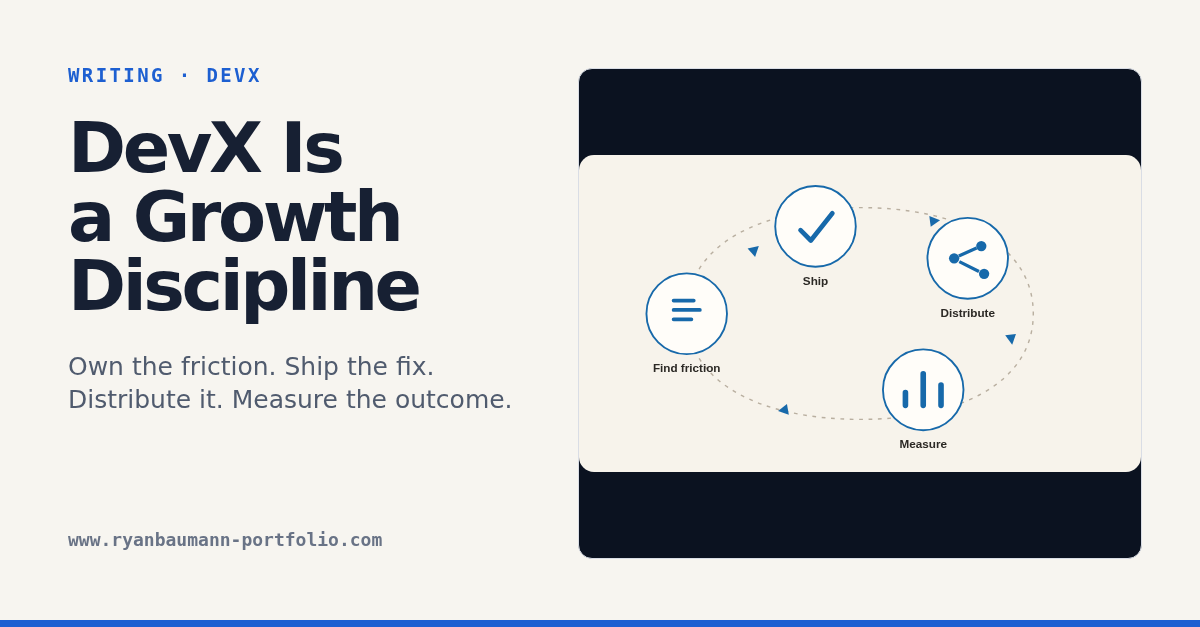
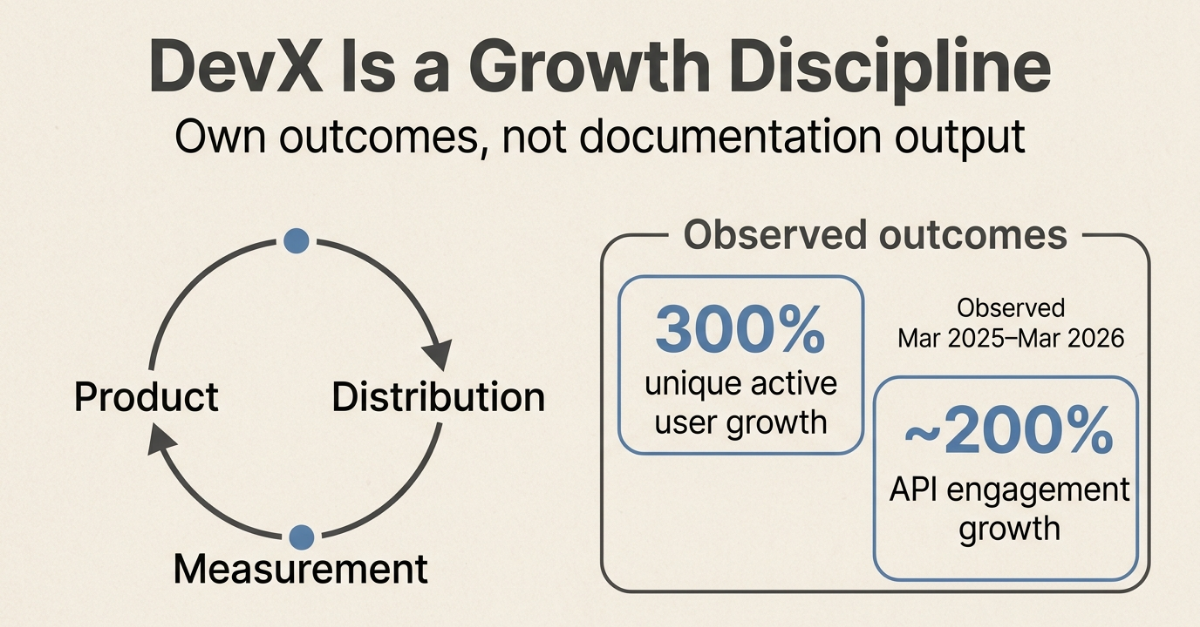
finalize DevX essay visuals

diff --git a/.agents/skills/infographic-agent/portable_infographic.py b/.agents/skills/infographic-agent/portable_infographic.py
@@ -637,11 +637,29 @@ def _normalize_to_png(data: bytes, mime: str):
         return data, m
 
 
+def _image_config(aspect: str, resolution: str):
+    """Use newer quality controls only when the installed SDK supports them."""
+    fields = getattr(types.ImageConfig, "model_fields", {})
+    kwargs = {"aspect_ratio": aspect}
+    if "image_size" in fields:
+        kwargs["image_size"] = resolution
+    else:
+        warn("Installed google-genai does not expose image_size; using the model's native resolution.")
+    return types.ImageConfig(**kwargs)
+
+
+def _thinking_config():
+    fields = getattr(types.ThinkingConfig, "model_fields", {})
+    if "thinking_level" in fields:
+        return types.ThinkingConfig(thinking_level="HIGH", include_thoughts=True)
+    return types.ThinkingConfig(thinking_budget=-1, include_thoughts=True)
+
+
 def generate_image(client, prompt: str, aspect: str, image_model: str, resolution: str):
     config = types.GenerateContentConfig(
         response_modalities=["TEXT", "IMAGE"],
-        image_config=types.ImageConfig(aspect_ratio=aspect, image_size=resolution),
-        thinking_config=types.ThinkingConfig(thinking_level="HIGH", include_thoughts=True),
+        image_config=_image_config(aspect, resolution),
+        thinking_config=_thinking_config(),
         http_options=types.HttpOptions(timeout=180_000),
     )
     info(f"🎨 Generating the infographic ({image_model}) at {resolution}...")
@@ -656,8 +674,8 @@ def generate_image(client, prompt: str, aspect: str, image_model: str, resolutio
 def refine_image(client, image_bytes: bytes, mime: str, instruction: str, aspect: str, image_model: str, resolution: str):
     config = types.GenerateContentConfig(
         response_modalities=["TEXT", "IMAGE"],
-        image_config=types.ImageConfig(aspect_ratio=aspect, image_size=resolution),
-        thinking_config=types.ThinkingConfig(thinking_level="HIGH", include_thoughts=True),
+        image_config=_image_config(aspect, resolution),
+        thinking_config=_thinking_config(),
         http_options=types.HttpOptions(timeout=180_000),
     )
     contents = [

diff --git a/portfolio/content/writing/devex-is-a-growth-discipline.md b/portfolio/content/writing/devex-is-a-growth-discipline.md
@@ -6,12 +6,12 @@ summary: DevX teams should own developer friction from discovery through distrib
 date: 2026-07-14
 updated: 2026-07-15
 canonical: https://www.ryanbaumann-portfolio.com/writing/devx-is-a-growth-discipline/
-image: /assets/devx-growth-loop.svg
-imageAlt: A continuous loop from finding developer friction to shipping a better experience, distributing it, and measuring the outcome.
+image: /assets/devx-growth-header.png
+imageAlt: A four-stage DevX loop moves from observed friction to a shipped fix, distribution in builder workflows, and rising measured outcomes.
 socialImage: /social/devx-growth-discipline.png
 shareTitle: DevX Is a Growth Discipline
 shareSummary: Own the friction, ship the fix, distribute the experience, and measure the outcome.
-shareImageAlt: The DevX growth loop: find friction, ship, distribute, and measure.
+shareImageAlt: DevX Is a Growth Discipline, with a product, distribution, and measurement loop beside observed user and API engagement growth.
 tags: ["developer experience", "growth", "distribution", "ai"]
 order: 1
 ---
@@ -42,6 +42,6 @@ Traditional feedback loops are slow. Interviews, support themes, and developer s
 
 Evals do not replace user research. An eval delta tests whether the experience can complete the task. Product telemetry shows whether builders found it, completed the journey, and returned. Direct research explains why people behaved that way. Together, those signals let a DevX team test a specific hypothesis without pretending one score explains the user.
 
-![An agentic evaluation loop from task to agent run to score to a ship-or-hold decision.](/img/work/agentic-evals.svg)
+![An agent evaluation loop moves from a representative task through an agent trace and rubric comparison to a ship-or-hold decision, then repeats using telemetry and research.](/assets/devx-eval-loop.png)
 
 This is the discipline: own the friction, solve it, improve the product, ship the better experience into the workflow, and measure the impact. Then run the loop again.

diff --git a/LEARNINGS.md b/LEARNINGS.md
@@ -215,3 +215,10 @@ Context: The `portable-infographic-architect` script generated a very tall, vert
 Learning: Large language models default to vertical stacking (flex-direction: column) when generating HTML/CSS cards for infographics unless explicitly constrained otherwise. A long vertical image works on Pinterest but fails catastrophically as a hero image or embedded asset in an essay.
 Evidence: The initial DevX essay thumbnail was unreadably tall. Passing "WIDESCREEN LANDSCAPE 16:9 ASPECT RATIO REQUIRED. Arrange items horizontally side-by-side, NOT vertically." to the script's `--text` parameter successfully forced the LLM to generate a horizontal layout that fit perfectly within the blog design without stretching.
 Use next time: When using the `portable-infographic-architect` for blog thumbnails, hero images, or essay embeds, explicitly command the script to use a landscape/widescreen layout and horizontal item arrangement in the prompt. Do not leave the aspect ratio up to the model.
+
+## 2026-07-15: Image-generation settings can outpace an installed SDK
+
+Context: The DevX essay visual pass required Gemini 3.1 Flash Image at 1K with high thinking, but the locally installed Python SDK did not expose `image_size` or `thinking_level` in its typed configuration objects.
+Learning: Model support and client-library support can land at different times. Feature-detect optional SDK fields, and use the official REST request shape when a required generation setting is supported by the model but absent from the installed client.
+Evidence: Compatibility helpers keep the infographic skill runnable on the current SDK, while the successful final image requests used `imageConfig.imageSize: "1K"` and `thinkingConfig.thinkingLevel: "high"` through the Gemini API.
+Use next time: Confirm required image settings against the live client types before a render loop. Archive the exact model, request configuration, prompt, and uncropped source beside the finished asset.

diff --git a/CHANGELOG.md b/CHANGELOG.md
@@ -4,10 +4,11 @@
 
 - Renamed the first essay route from `devex` to `devx`, updated its canonical metadata, and added an HTTP 308 alias so existing links keep working with query strings intact.
 - Rewrote the essay around owning developer friction, distributing improvements into builder workflows, and measuring outcomes with product evidence and agent evaluations.
-- Replaced the oversized text-heavy hero with a 16:9 growth-loop diagram, added a separate 1200×627 social card, and embedded an agentic-evals artifact in the article.
+- Replaced the oversized text-heavy hero with a 16:9 growth-loop diagram, added a separate 1200×627 social card, and embedded a purpose-built agent-evaluation loop in the article.
 - Added reusable front-matter aliases for future detail-page renames and documented the workflow in the portfolio content skill.
 - Hardened aliases against slashless duplicates, canonical-page collisions, private-route disclosure, stale canonicals, external targets, and bodyless entries.
 - Installed Infographic Agent 3.2.0 and documented the required three-asset visual standard for every future hosted essay.
+- Archived the exact final image prompts and settings, including Gemini 3.1 Flash Image at 1K with high thinking, so all three visuals can be reproduced.
 
 ## 2026-07-14: DevEx is a Growth Discipline Essay Update
 